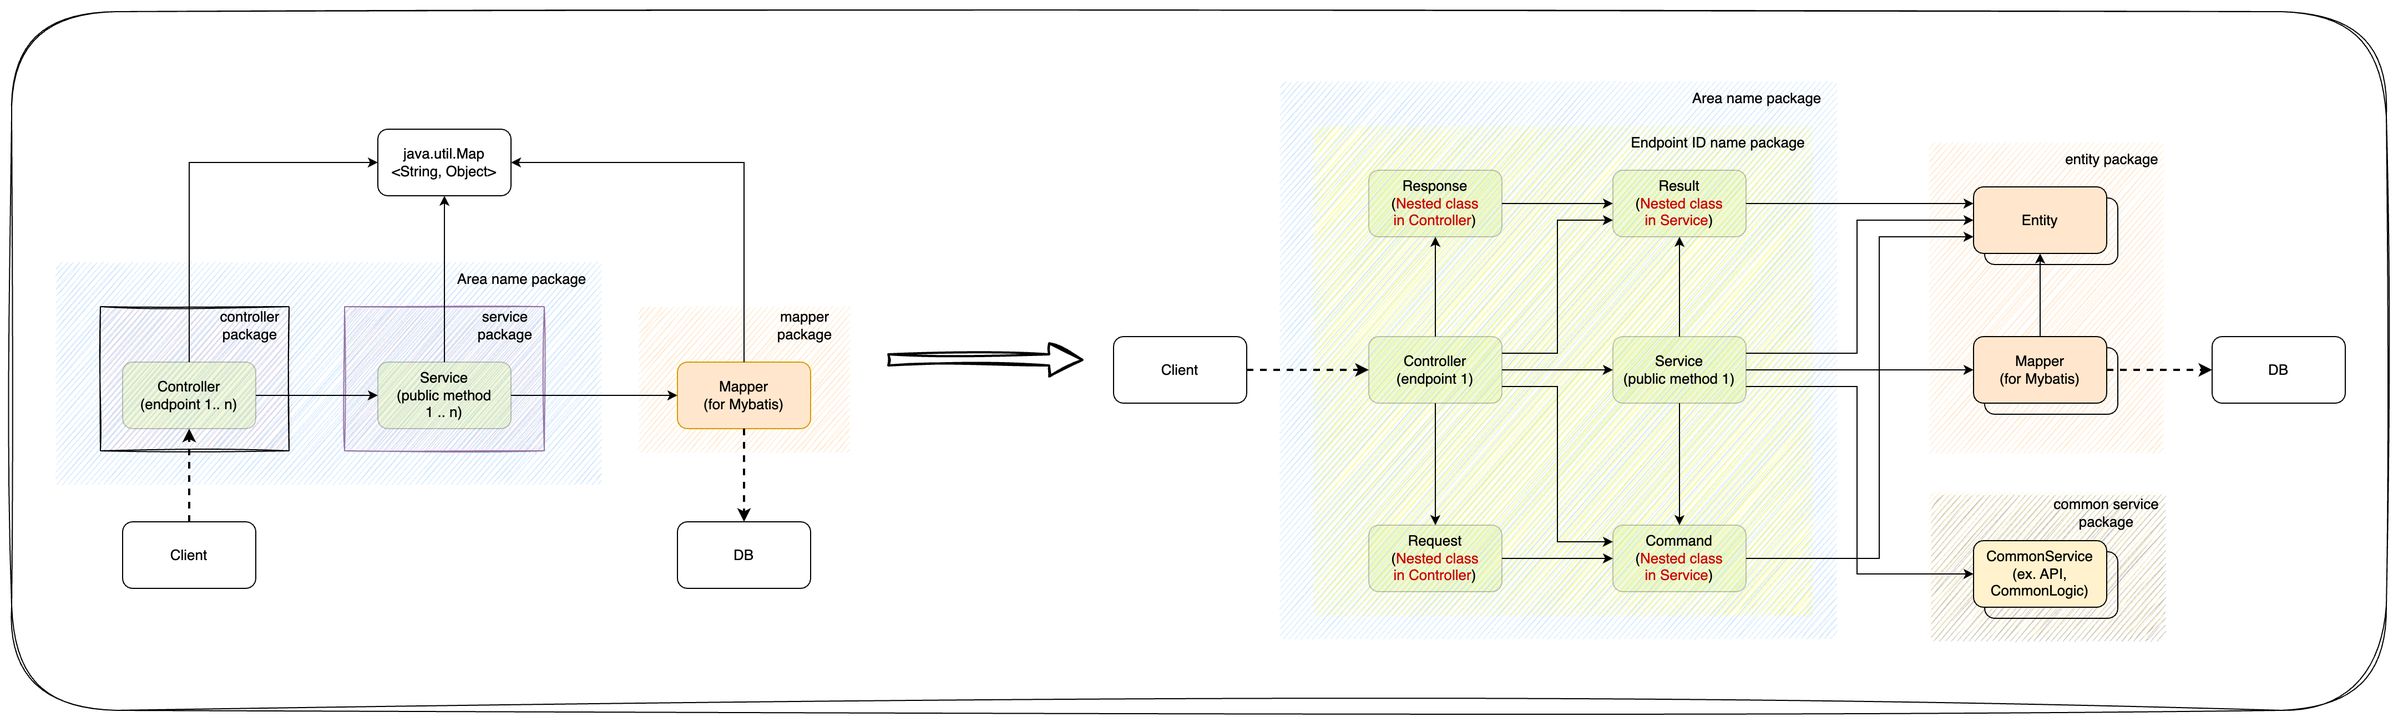
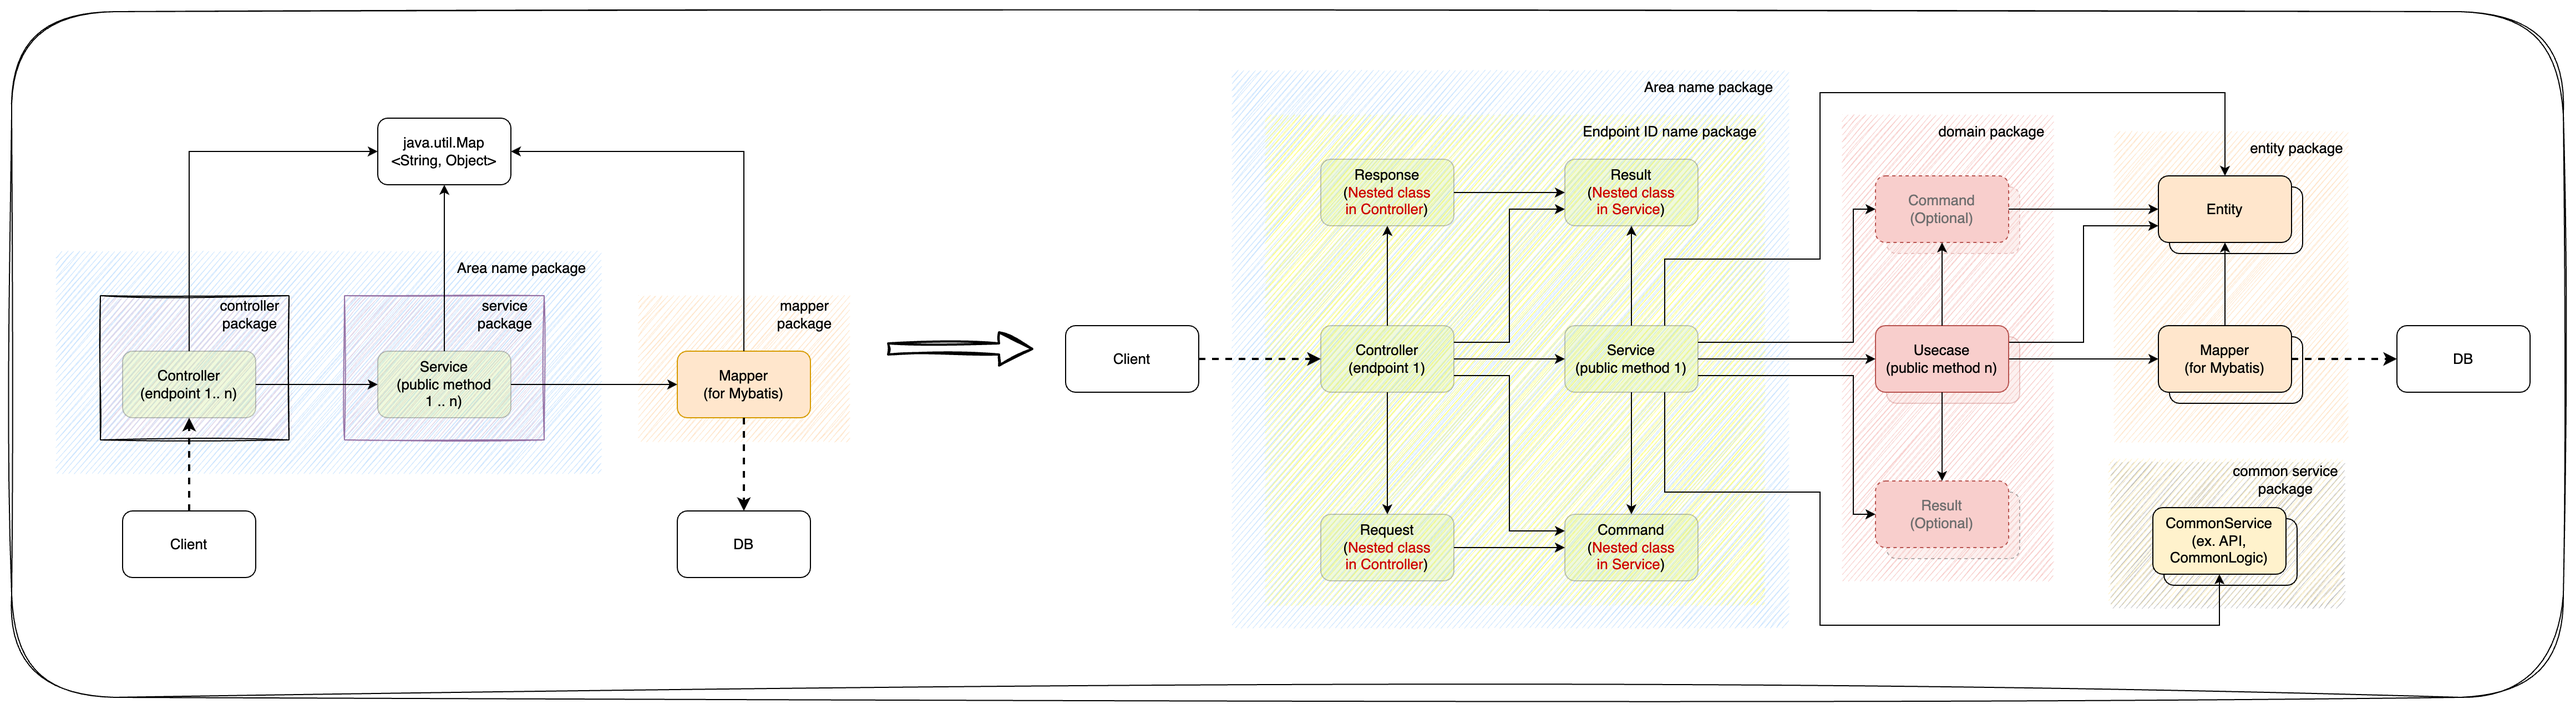
Spring MVC와 Mybatis 기반의 단순 아키텍처 수정
TO-BE v3 추가

diff --git a/content/post/simple-arch-with-mybatis/index.md b/content/post/simple-arch-with-mybatis/index.md
@@ -1,7 +1,7 @@
 ---
 title: "Spring MVC와 Mybatis 기반의 단순 아키텍처"
 date: 2023-08-20
-lastmod: 2023-08-27
+lastmod: 2023-09-04
 categories:
 - Backend
 tags:
@@ -12,6 +12,7 @@ tags:
 - 스프링
 - 마이바티스
 - 아키텍처
+- 아키텍처 설계
 draft: false
 hidden: false 
 image: cover.png
@@ -19,6 +20,8 @@ links:
   - title: 예제코드
     website: https://github.com/seungyeop-lee/blog-example/tree/main/architecture-in-spring/modules
 ---
+
+2023-09-04 추가: TO-BE v3까지 오면서 더 이상 "단순 아키텍처"라고 부르기 힘든 수준이 된거 같다...
 
 ## 서론
 
@@ -419,3 +422,119 @@ class EXAM001Service {
 Command는 Mapper에서 사용 할 객체를 생성하는 책임이 추가되었고, Result는 Entity로부터 스스로를 생성 할 책임이 추가되었다.
 
 Controller의 Request와 Service의 Command, Controller의 Response와 Service의 Result가 중복으로 보일 수 있으나 내 생각에는 **우발적 중복**이라 생각한다. (해당 내용은 클린 아키텍처 "16장.독립성#중복" 부분을 참고)
+
+## TO-BE v3
+
+회사에서 v2를 도입하여 작업해보니, 특정 도메인 로직이 여러 인터페이스의 서비스에 분산되서 나타나기 시작하였다. 도메인 로직의 유지보수성 향상을 목적으로 아키텍처를 수정하였다.
+
+### 구성도
+
+![TO-BE v3 의존관계 구성도](SimpleBackend-TO-BE-v3.png)
+
+도메인 로직을 관리하기위한 Usecase가 추가 되었다. Usecase 용 Command와 Result 객체는 표현력이 더 필요 할 때에 한해서 사용하고, 보통은 Entity를 사용하도록 하였다.
+
+### 예제 코드
+
+Controller의 코드는 TO-BE v2와 동일하여 생략하였다.
+
+```java
+@Service
+@Transactional
+@RequiredArgsConstructor
+class EXAM001Service {
+
+    private final BookUsecase bookUsecase;
+
+    public Result createBook(Command command) {
+        if (bookUsecase.findByIsbn(command.getIsbn()).isPresent()) {
+            throw new Exceptions.ISBNDuplicationException();
+        }
+
+        Book book = bookUsecase.createBook(
+                CreateBookCommand.of(
+                        command.getTitle(),
+                        command.getIsbn(),
+                        command.getPublishedDate()
+                )
+        );
+
+        return Result.from(book);
+    }
+
+    @Getter
+    static class Command {
+        private String title;
+        private String isbn;
+        private LocalDate publishedDate;
+
+        public static Command of(
+                String title,
+                String isbn,
+                LocalDate publishedDate
+        ) {
+            Command command = new Command();
+            command.title = title;
+            command.isbn = isbn;
+            command.publishedDate = publishedDate;
+            return command;
+        }
+    }
+
+    @Getter
+    static class Result {
+        private Long bookId;
+        private String title;
+        private String isbn;
+        private LocalDate publishedDate;
+
+        public static Result from(Book book) {
+            Result result = new Result();
+            result.bookId = book.getBookId();
+            result.title = book.getTitle();
+            result.isbn = book.getIsbn();
+            result.publishedDate = book.getPublishedDate();
+            return result;
+        }
+    }
+}
+```
+
+기존의 BookMapper를 직접호출하던 것과 달리, BookUsecase에 위임하는 방식으로 변경하였다.
+
+```java
+@Service
+@Transactional
+@RequiredArgsConstructor
+public class BookUsecase {
+
+    private final BookMapper bookMapper;
+
+    public Book createBook(CreateBookCommand command) {
+        Book book = new Book()
+                .withTitle(command.getTitle())
+                .withIsbn(command.getIsbn())
+                .withPublishedDate(command.getPublishedDate());
+
+        bookMapper.insert(book);
+
+        return book;
+    }
+
+    ...
+
+    public Optional<Book> findByIsbn(String isbn) {
+        BookExample example = new BookExample();
+        example.createCriteria().andIsbnEqualTo(isbn);
+
+        List<Book> books = bookMapper.selectByExample(example);
+        if (books.isEmpty()) {
+            return Optional.empty();
+        } else {
+            return Optional.of(books.get(0));
+        }
+    }
+}
+```
+
+Book 도메인에 대한 로직을 BookUsecase에 모음으로서 유지보수성이 향상되었다. 
+Book 객체를 생성 할 때의 `.withXXX()` 는 Mybatis Generator의 FluentBuilderMethodsPlugin 플러그인을 적용하여 추가된 구문이다.
